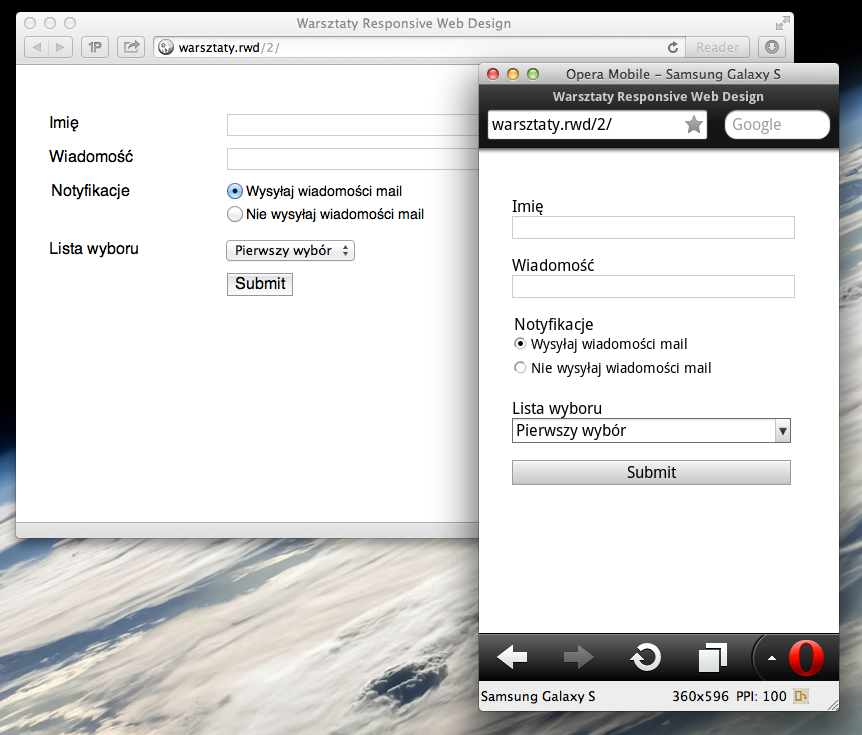
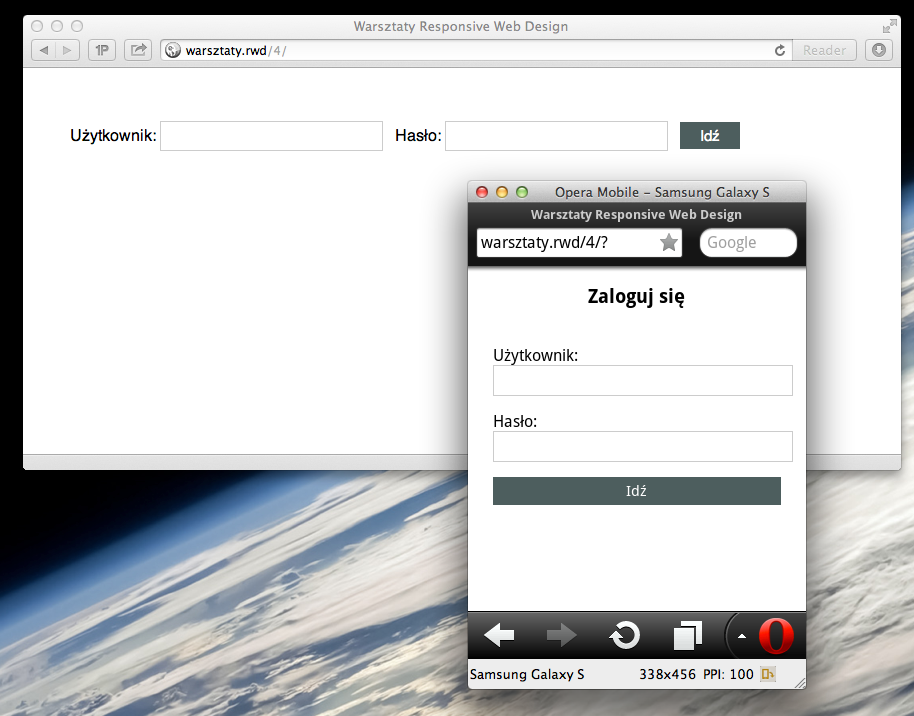
Updating #4

diff --git a/4/index.html b/4/index.html
@@ -8,55 +8,22 @@
 		<link rel="stylesheet" href="main.css">
 	</head>
     <body>
-		<form action="#">
-			<ul>
-				<li>
-					<label class="desc" id="title1" for="Field1">Imię</label>
-					<div>
-						<input id="Field1" type="text" class="field text fn" value="">
-					</div>
-				</li>
-				<li>
-					<label class="desc" id="title4" for="Field4">Wiadomość</label>
-					<div>
-						<input type="text" id="Field4"></input>
-					</div>
-				</li>
-				<li class="radio">
-					<fieldset>
-						<legend id="title5" class="desc">Notyfikacje</legend>
-						<div>
-							<div>
-								<input id="Field5_0" type="radio" value="First Choice" checked="checked"> <label class="choice" for="Field5_0">Wysyłaj wiadomości mail</label>
-							</div>
-							<div>
-								<input id="Field5_1" type="radio" value="Second Choice"> <label class="choice" for="Field5_1">Nie wysyłaj wiadomości mail</label>
-							</div>
-						</div>
-					</fieldset>
-				</li>
-				<li>
-					<label class="desc" id="title106" for="Field106">Lista wyboru</label>
-					<div>
-						<select id="Field106" class="field select medium">
-							<option>
-								Pierwszy wybór
-							</option>
-							<option>
-								Drugi wybór
-							</option>
-							<option>
-								Trzeci wybór
-							</option>
-						</select>
-					</div>
-				</li>
-				<li>
-					<div>
-						<button type="submit">Submit</button>
-					</div>
-				</li>
-			</ul>
+		<form action="" class="login">
+			<fieldset>
+				<h3>Zaloguj się</h3>
+				
+				<div>
+					<label for="user">Użytkownik:</label>
+					<input id="user" type="text" />
+				</div>
+				
+				<div>
+					<label for="pass">Hasło:</label>
+					<input id="pass" type="password" />
+					
+					<button type="submit">Idź</button>
+				</div>
+			</fieldset>
 		</form>
 	</body>
 </html>

diff --git a/4/main.css b/4/main.css
@@ -1,50 +1,26 @@
-form {
-	max-width: 800px;
+h3 {
+	position: absolute;
+	left: -9999px;
 }
-fieldset {
-	border: 0;
-	padding: 0;
-}
-ul {
-	padding: 0;
-}
-li {
-	clear: both;
-	display: block;
-	overflow: hidden;
-	padding: 1px;
-	margin: 0 0 10px 0;
-}
-fieldset div div {
-	margin: 0 0 5px 0;
-}
-li > label,
-legend {
-	width: 25%;
-	float: left;
-}
-li > div,
-fieldset > div {
-	width: 75%;
-	float: right;
-}
-fieldset label {
-	font-size: 90%;
-}
-
-input,
-textarea {
-	width: 100%;
-	border: 1px solid #ccc;
+div {
+	display: inline-block;
 }
 input {
-	width: 50%;
+	border: 1px solid #ccc;
+	padding: 5px;
+	font-size: 1em;
+	color: #999;
+	margin-right: .5em;
 }
-.radio input {
-	width: auto;
+button {
+	font-size: .92em;
+	color: #fff;
+	padding: 5px 20px;
 	border: 0;
+	background: #4e5e5e;
+	margin: 1em 0 0;
 }
 
-@media (max-width: 600px) {
+@media screen and (max-width: 40em) {
 
 }

diff --git a/Index.html b/Index.html
@@ -4,7 +4,7 @@
 		<meta charset="utf-8">
 		<meta name="viewport" content="width=device-width">
 		<title>Warsztaty Responsive Web Design</title>
-		<link rel="stylesheet" href="_assets/main.css">
+		<link rel="stylesheet" href="_assets/global.css">
 	</head>
 	<body>
 		<h1>Warsztaty Responsive Web Design</h1>

diff --git a/_assets/global.css b/_assets/global.css
@@ -242,7 +242,7 @@ figure {
  */
 
 fieldset {
-    border: 1px solid #c0c0c0;
+    border: none;
     margin: 0 2px;
     padding: 0.35em 0.625em 0.75em;
 }
